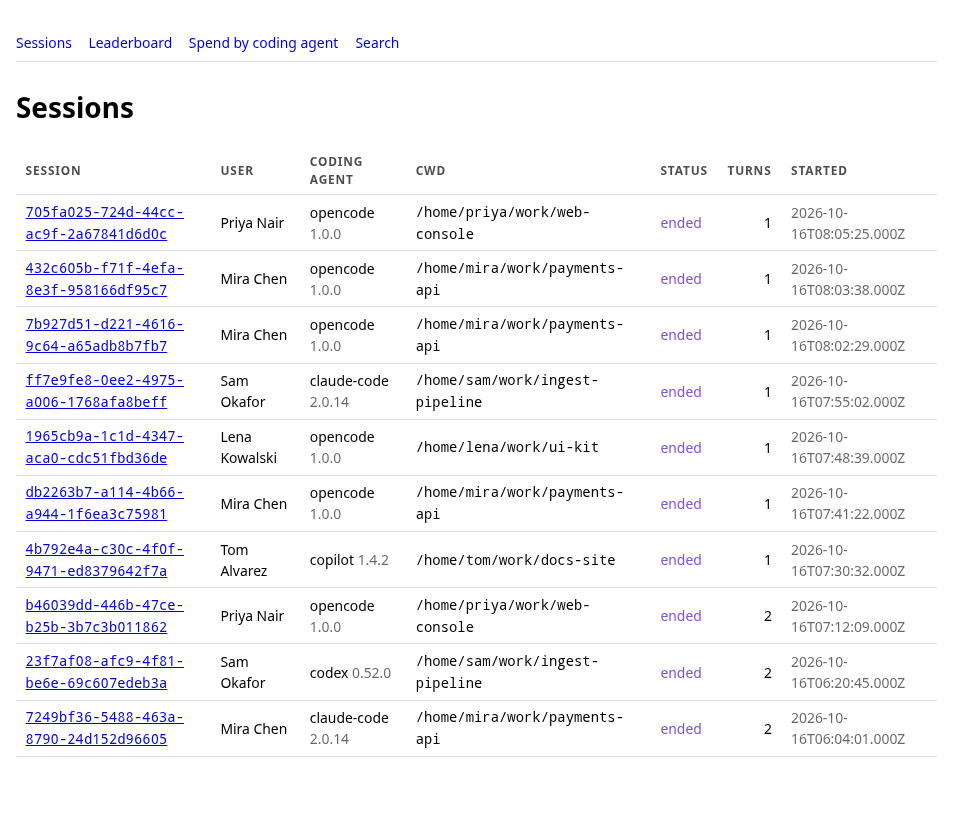
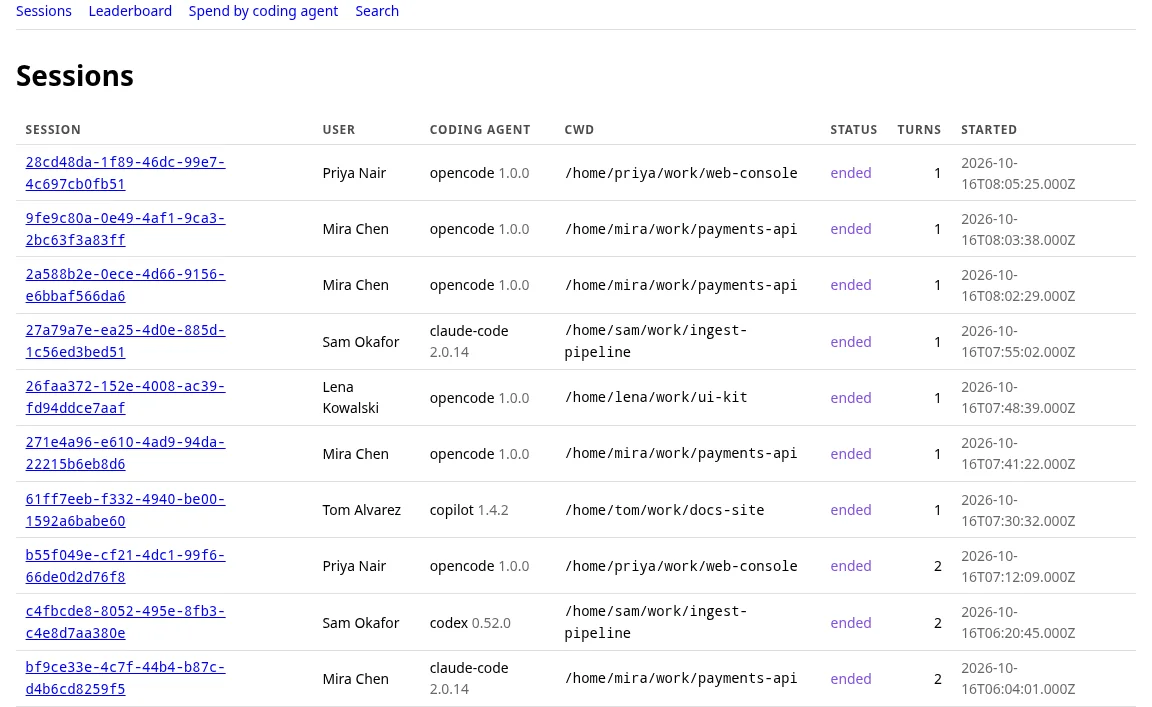
Fix README wording, credit Matt Pocock, opaque screenshots

diff --git a/README.md b/README.md
@@ -4,7 +4,7 @@
 [![Runtime: Bun](https://img.shields.io/badge/runtime-bun-black?logo=bun)](https://bun.sh)
 
 Self-hosted, on-prem observability for coding agents. Slopwatch observes the
-Sessions a developer runs in Claude Code, Codex, Pi, OpenCode, and Copilot, ships
+Sessions a user runs in Claude Code, Codex, Pi, OpenCode, and Copilot, ships
 them to a Server you operate, and turns them into answers about who spent what,
 on which model, across which Turns.
 
@@ -22,7 +22,7 @@ dashboard.
 ## How it works
 
 ```
- Developer machine                        Org-operated, self-hosted
+ User machine                             Org-operated, self-hosted
  ┌──────────────────────────────┐         ┌──────────────────────────────┐
  │ Coding agent                 │         │ slopwatch-server             │
  │ (Claude Code, Codex, Pi,     │         │ (single binary)              │
@@ -44,7 +44,7 @@ dashboard.
 
 Two components do the work:
 
-- **Listener** - a per-agent integration on the developer's machine that observes
+- **Listener** - a per-agent integration on the user's machine that observes
   one coding agent, normalizes its events into `NormalEvent`, and ships them to
   the Server. One Listener per supported agent; it runs either in-process (Pi,
   OpenCode) or as a per-session subprocess (Claude Code, Codex, Copilot).
@@ -147,7 +147,7 @@ curl -X POST http://localhost:3000/api/admin/users \
 
 > [!WARNING]
 > The Server stores only a hash of the token, so the response above is the only
-> time it is shown. Hand it to the developer out-of-band. Revoking it rejects
+> time it is shown. Hand it to the user out-of-band. Revoking it rejects
 > their next ingestion attempt.
 
 ### Load the OpenCode Listener
@@ -173,7 +173,7 @@ Point it at the Server and the minted token, either as plugin options (`url` /
 | OS keychain / file | `token`         | Where `slopwatch login` (later ticket) puts it. |
 
 With no token the Listener reports itself inactive and does nothing, so a
-developer without Slopwatch is left undisturbed.
+user without Slopwatch is left undisturbed.
 
 > [!TIP]
 > `bun run pg:up` starts the same Postgres the tests use, so there is no second
@@ -234,3 +234,10 @@ admin API require `Authorization: Bearer ...`.
   capture surfaces across the five target agents.
 - [research/developer-leaderboard-design.md](./research/developer-leaderboard-design.md) -
   the dashboard's top-level "who is spending" surface.
+
+## Credits
+
+Slopwatch's architecture was thought through by
+[Matt Pocock](https://www.youtube.com/watch?v=K-mA3MZ_EzU), whose original
+walkthrough shaped the Listener/Server split, the `NormalEvent` schema, and the
+on-prem, org-wide model.
